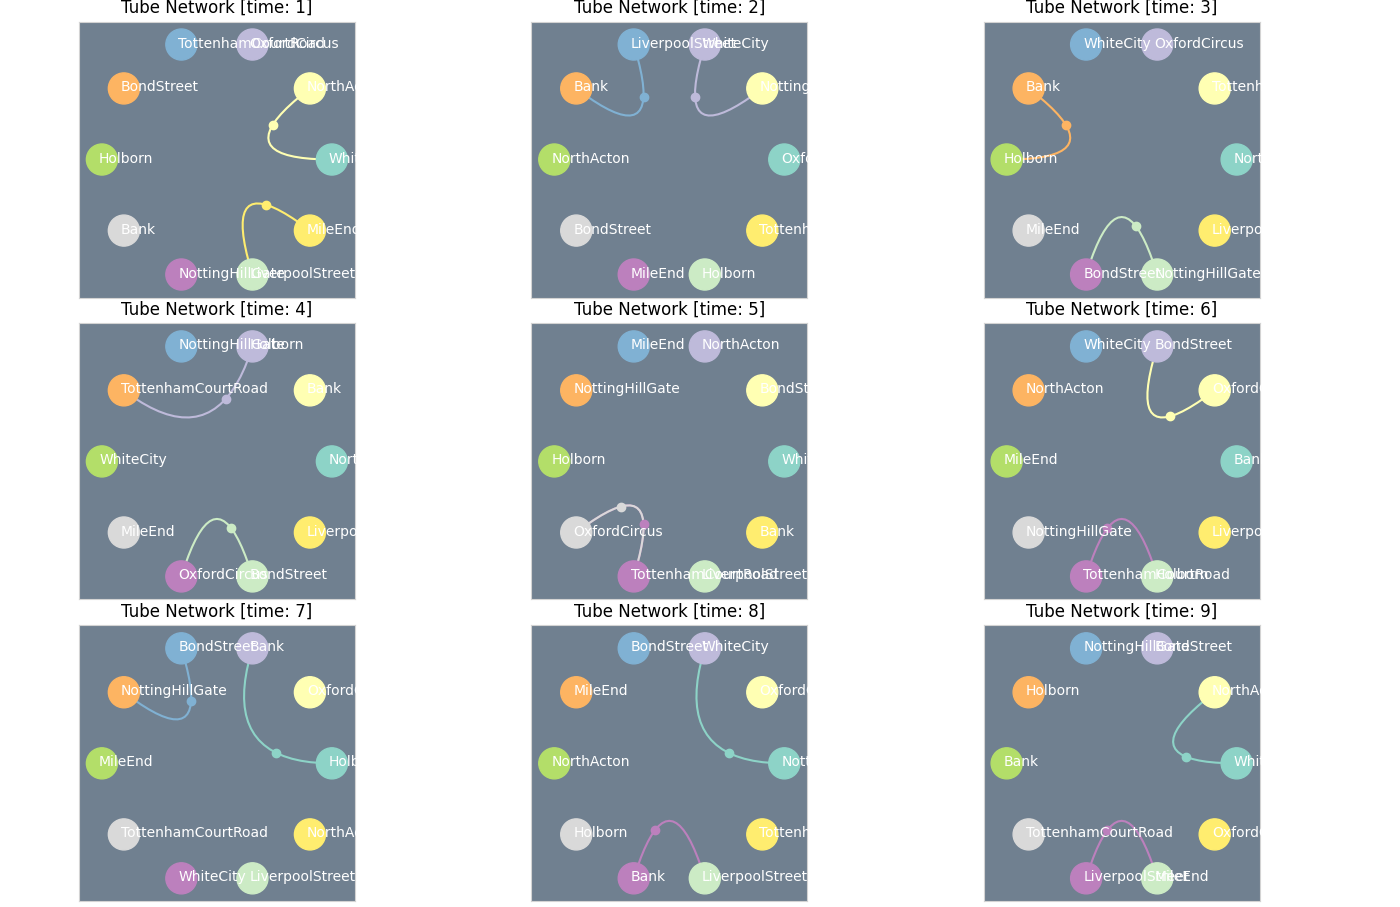
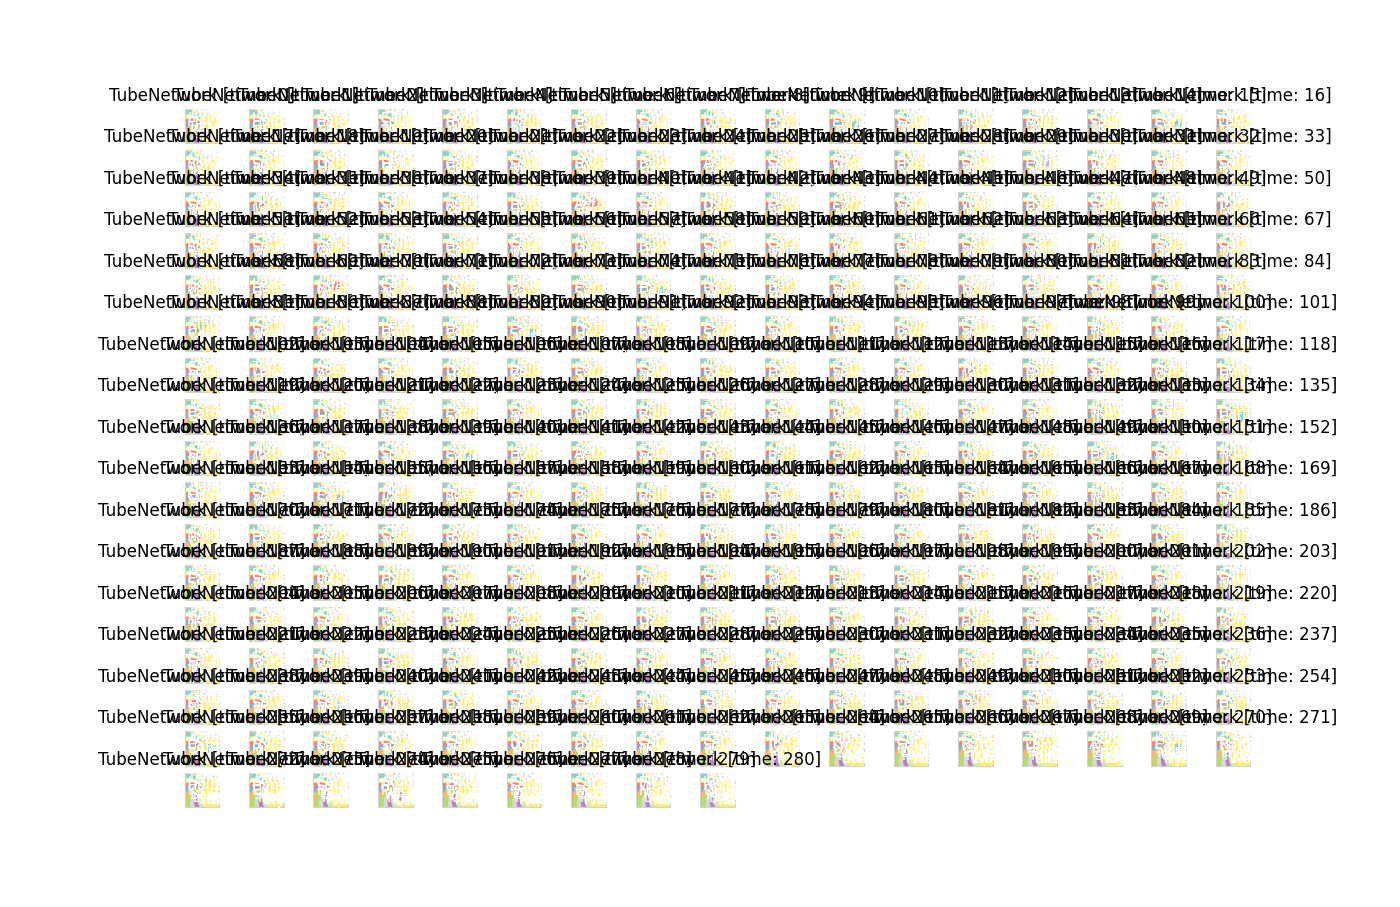
tube example

diff --git a/OVERTIME/inputs/classes.py b/OVERTIME/inputs/classes.py
@@ -32,12 +32,13 @@ class CSVInput(Input):
             data = self.data
             ne = 0
             for row in reader:
-                data['edges'][ne] = {}
-                data['edges'][ne]['node1'] = row['node1']
-                data['edges'][ne]['node2'] = row['node2']
-                data['edges'][ne]['tstart'] = row['tstart']
-                if 'end' in row:
-                    data['edges'][ne]['tend'] = row['tend']
-                else:
-                    data['edges'][ne]['tend'] = None
-                ne += 1
+                if any(x.strip() for x in row):
+                    data['edges'][ne] = {}
+                    data['edges'][ne]['node1'] = row['node1']
+                    data['edges'][ne]['node2'] = row['node2']
+                    data['edges'][ne]['tstart'] = row['tstart']
+                    if 'end' in row:
+                        data['edges'][ne]['tend'] = row['tend']
+                    else:
+                        data['edges'][ne]['tend'] = None
+                    ne += 1

diff --git a/OVERTIME/tube_example.py b/OVERTIME/tube_example.py
@@ -4,18 +4,18 @@ from components.digraphs import TemporalDiGraph
 from plots.plotter import Plotter
 from plots.circle import Circle
 from plots.slice import Slice
+from algorithms.foremost import CalculateForemostTree
 
 
-tube = TemporalDiGraph('Tube Network', data=CSVInput('./tube.csv'))
+tube = TemporalDiGraph('TubeNetwork', data=CSVInput('./tube.csv'))
 tube.details()
 
 plotter = Plotter()
 plotter.single(Circle, tube, ordered=True)
 plotter.single(Slice, tube, save=True)
 
-snapshots = []
-for t in tube.edges.timespan():
-    snapshots.append(tube.get_snapshot(t))
-plotter.multi(Circle, snapshots, save=True, ordered=True)
+plotter.single(Circle, CalculateForemostTree(tube, 'Holborn'))
+plotter.single(Slice, CalculateForemostTree(tube, 'Holborn'))
+
 
 input("Press enter key to exit...")

diff --git a/OVERTIME/plots/slice.py b/OVERTIME/plots/slice.py
@@ -1,4 +1,5 @@
 
+#from random import shuffle
 import matplotlib.pyplot as plt
 from plots.plot import Plot
 
@@ -34,7 +35,6 @@ class Slice(Plot):
         for label in self.graph.edges.ulabels():
             self.labels.append(label)
         
-
         for t in self.graph.edges.timespan():
             for edge in self.graph.edges.set:
                 if edge.isactive(t):
@@ -47,7 +47,7 @@ class Slice(Plot):
         pos['x'] = [edge.x for edge in self.edges]
         pos['y'] = [edge.y for edge in self.edges]
         colors = pos['y']
-        cmap = self.colormap('Set3', 1000)
+        cmap = self.set3colormap(self.graph.edges.count())
         ax_node = self.axes.scatter(
             pos['x'], pos['y'], s=50, c=colors, cmap=cmap, zorder=1
         )

diff --git a/OVERTIME/plots/circle.py b/OVERTIME/plots/circle.py
@@ -96,7 +96,7 @@ class Circle(Plot):
         pos['x'] = [node.x for node in self.nodes]
         pos['y'] = [node.y for node in self.nodes]
         colors = [x for x in range(0, n)]
-        cmap = self.colormap('Set3', math.ceil(n/10))
+        cmap = self.set3colormap(n)
         ax_node = self.axes.scatter(
             pos['x'], pos['y'], s=500, c=colors, cmap=cmap, zorder=1
         )

diff --git a/OVERTIME/plots/plot.py b/OVERTIME/plots/plot.py
@@ -1,4 +1,5 @@
 
+import math
 import matplotlib.pyplot as plt
 from matplotlib import cm
 from matplotlib.colors import ListedColormap
@@ -67,6 +68,7 @@ class Plot:
         pass
 
 
-    def colormap(self, name, n):
-        cmap = cm.get_cmap(name)
+    def set3colormap(self, n):
+        n = math.ceil(n/12)
+        cmap = cm.get_cmap('Set3')
         return ListedColormap(cmap.colors*n)
